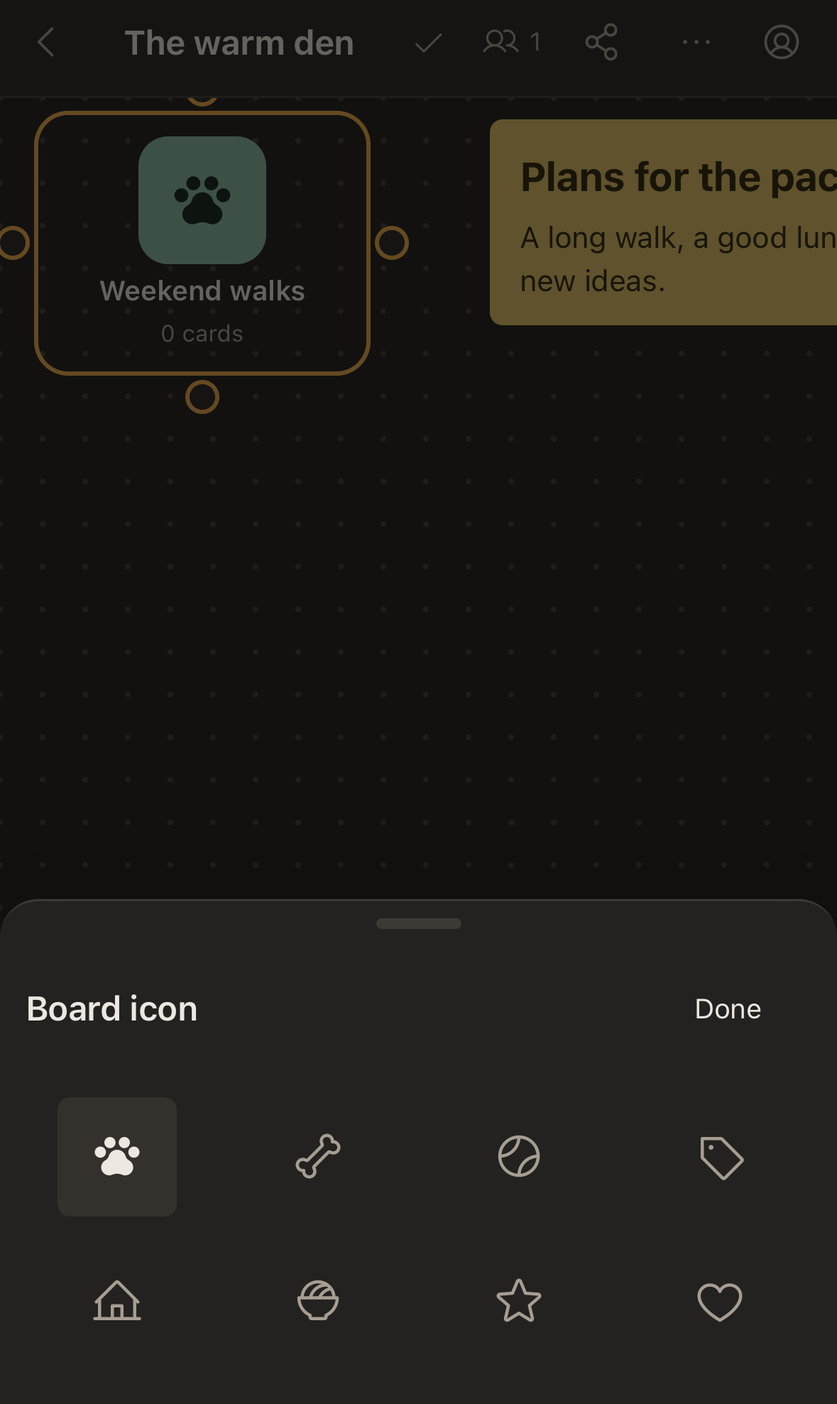
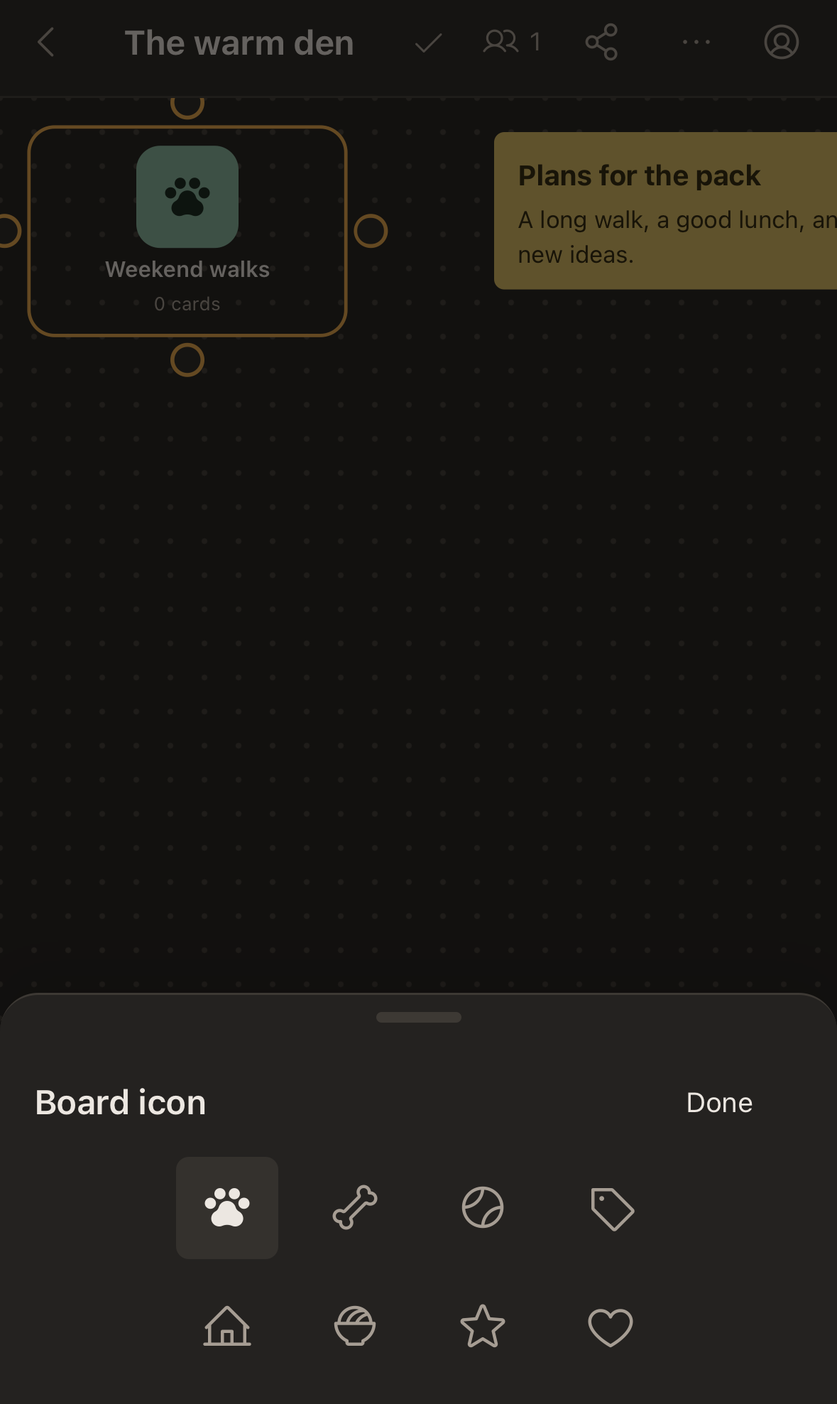
Tighten creation palettes and sharing after panel review

diff --git a/apps/web/src/ui/ShareDialog.tsx b/apps/web/src/ui/ShareDialog.tsx
@@ -46,6 +46,7 @@ function SharePanel(props: { boardId: Id; onClose: () => void }) {
   const [error, setError] = createSignal<string | null>(null)
   const [copied, setCopied] = createSignal<string | null>(null)
   const [busy, setBusy] = createSignal(false)
+  const invitingPerson = () => !!username().trim()
   const parent = () => boardPermissions().find((b) => b.id === props.boardId)?.parentId
   let panel!: HTMLDivElement
   onMount(() => {
@@ -89,30 +90,48 @@ function SharePanel(props: { boardId: Id; onClose: () => void }) {
   }
   return <div ref={panel} class="menu share-panel" data-testid="share-panel" role="dialog" aria-label="Board sharing" onKeyDown={agentDialogKeys}><SheetGrip onDismiss={props.onClose} />
     <div class="share-head"><strong>Share board</strong><button class="icon-btn" aria-label="Close sharing" onClick={props.onClose}><Icon size={16} name="close" /></button></div>
-    <p class="share-sub">{sharing()?.legacy ? 'Shared space members already have editing access. Admins manage its invitations.' : 'Private until you invite someone. Only you manage sharing.'}</p>
-    <Show when={parent() && parent() !== `home:${sharing()?.ownerId}`}><p class="share-sub">People with inherited access from “{boardDisplayTitle(doc.getBoard(parent()), 'the parent board')}” keep that access. Manage it on the parent board.</p></Show>
-    <label class="check"><input type="checkbox" data-testid="include-children" checked={includeChildren()} onChange={(e) => setIncludeChildren(e.currentTarget.checked)} />Include boards inside this one</label>
-    <label class="share-permission-field">Invitation permission
-      <select aria-label="Invitation permission" data-testid="invitation-permission" value={permission()} onChange={(e) => setPermission(e.currentTarget.value as 'view' | 'edit')}><option value="view">View only</option><option value="edit">Can edit</option></select>
-    </label>
-    <strong>Invite by username</strong>
-    <form class="share-user-form" onSubmit={addMember} data-testid="share-member-form">
-      <input aria-label="Username to invite" placeholder="Username" value={username()} required minLength={2} maxLength={32} onInput={(e) => setUsername(e.currentTarget.value)} />
-      <button class="bar-btn" type="submit" disabled={busy()}>Invite</button>
-    </form>
-    <ul class="share-members"><For each={sharing()?.members ?? []}>{(m) => <li data-testid="share-member"><span>{m.username}<br /><small>{m.permission === 'edit' ? 'Can edit' : 'View only'}{m.viaLink ? ' · via invitation link' : ''}</small></span><button class="bar-btn" disabled={busy()} aria-label={`Remove access for ${m.username}`} onClick={() => void action(() => api(`/api/boards/${encodeURIComponent(props.boardId)}/members/${encodeURIComponent(m.id)}`, { method: 'DELETE' }))}>Remove</button></li>}</For></ul>
-    <strong>Invite by link</strong>
-    <p class="share-sub">{permission() === 'view' ? 'Anyone with this link can look without signing in.' : 'Sign-in required. This invitation can be accepted for 7 days; access continues until removed.'}</p>
-    <Show when={permission() === 'edit'}><label class="check"><input type="checkbox" data-testid="share-allow-signup" checked={allowSignup()} onChange={(e) => setAllowSignup(e.currentTarget.checked)} />Allow new accounts through this link</label><p class="share-sub">Leave this off to invite existing accounts only.</p></Show>
-    <button class="primary-btn" data-testid="create-share" disabled={busy()} onClick={() => void create()}>{busy() ? 'Saving…' : sharing()?.shares.length ? 'New link' : 'Create link'}</button>
-    <Show when={error() || list.error}><p class="form-error" role="alert">{error() || (list.error instanceof ApiError ? list.error.message : 'Could not load sharing. Try again when online.')}</p><Show when={list.error}><button class="bar-btn" onClick={() => void refetch()}>Retry loading sharing</button></Show></Show>
-    <Show when={list.loading}><p class="share-sub" role="status">Loading sharing…</p></Show>
-    <ul class="share-list"><For each={sharing()?.shares ?? []}>{(s) => <li data-testid="share-link">
-      <input class="share-url" readonly aria-label={`${s.permission === 'edit' ? 'Editing' : 'View-only'} link`} value={shareUrl(s.token, s.permission)} data-testid="share-url" onFocus={(e) => e.currentTarget.select()} />
-      <div class="share-actions"><span class="share-meta">{s.permission === 'edit' ? 'Can edit' : 'View only'} · {s.includeChildren ? 'with inner boards' : 'this board only'}</span><button class="bar-btn" onClick={() => void copy(s)}>{copied() === s.token ? 'Copied!' : 'Copy'}</button><button class="bar-btn" data-testid="revoke-share" disabled={busy()} onClick={() => void action(() => api(`/api/shares/${encodeURIComponent(s.token)}`, { method: 'DELETE' }))}>Turn off</button></div>
-      <Show when={s.expiresAt}><span class="share-expiry">{s.expiresAt! <= Date.now() ? 'Expired for new recipients' : `Accept by ${new Date(s.expiresAt!).toLocaleDateString()}`}{s.allowSignup ? ' · Account creation allowed' : ''}</span></Show>
-      <Show when={s.permission === 'view' && s.scopeVersion === 0}><p class="share-sub">Legacy link: includes referenced boards. Create a new link to share only this board and its nested boards.</p></Show>
-    </li>}</For></ul>
-    <p class="share-sub">Turning a link off removes access granted through it. Previously downloaded copies cannot be recalled.</p>
+    <div class="share-content">
+      <Show when={sharing()?.legacy}><p class="share-sub">Shared space members already have editing access. Admins manage its invitations.</p></Show>
+      <Show when={sharing() && parent() && parent() !== `home:${sharing()?.ownerId}`}><p class="share-sub">People with inherited access from “{boardDisplayTitle(doc.getBoard(parent()), 'the parent board')}” keep that access. Manage it on the parent board.</p></Show>
+      <section class="share-section" aria-label="New invitation settings">
+        <label class="share-permission-field">New invitation access
+          <select aria-label="Invitation permission" data-testid="invitation-permission" value={permission()} onChange={(e) => setPermission(e.currentTarget.value as 'view' | 'edit')}><option value="view">View only</option><option value="edit">Can edit</option></select>
+        </label>
+        <label class="check"><input type="checkbox" data-testid="include-children" checked={includeChildren()} onChange={(e) => setIncludeChildren(e.currentTarget.checked)} />Include boards inside this one</label>
+      </section>
+      <section class="share-section" aria-label="Invite by username">
+        <strong>Invite by username</strong>
+        <form class="share-user-form" onSubmit={addMember} data-testid="share-member-form">
+          <input aria-label="Username to invite" placeholder="Username" value={username()} required minLength={2} maxLength={32} onInput={(e) => setUsername(e.currentTarget.value)} />
+          <button class={invitingPerson() ? 'primary-btn' : 'bar-btn'} type="submit" disabled={busy()}>Invite</button>
+        </form>
+      </section>
+      <section class="share-section" aria-label="Invite by link">
+        <strong>Invite by link</strong>
+        <p class="share-sub">{permission() === 'view' ? 'Anyone with this link can look without signing in.' : 'Sign-in required. Accept within 7 days; access continues until removed.'}</p>
+        <Show when={permission() === 'edit'}><label class="check"><input type="checkbox" data-testid="share-allow-signup" checked={allowSignup()} onChange={(e) => setAllowSignup(e.currentTarget.checked)} />Allow new accounts through this link</label></Show>
+        <button class={invitingPerson() ? 'bar-btn' : 'primary-btn'} data-testid="create-share" disabled={busy()} onClick={() => void create()}>{busy() ? 'Saving…' : sharing()?.shares.length ? 'New link' : 'Create link'}</button>
+      </section>
+      <Show when={error() || list.error}><p class="form-error" role="alert">{error() || (list.error instanceof ApiError ? list.error.message : 'Could not load sharing. Try again when online.')}</p><Show when={list.error}><button class="bar-btn" onClick={() => void refetch()}>Retry loading sharing</button></Show></Show>
+      <Show when={list.loading}><p class="share-sub" role="status">Loading sharing…</p></Show>
+      <Show when={sharing()?.members.length}>
+        <section class="share-section share-existing" aria-label="People with access">
+          <strong>People with access</strong>
+          <ul class="share-members"><For each={sharing()?.members ?? []}>{(m) => <li data-testid="share-member"><span>{m.username}<br /><small>{m.permission === 'edit' ? 'Can edit' : 'View only'}{m.viaLink ? ' · via invitation link' : ''}</small></span><button class="bar-btn" disabled={busy()} aria-label={`Remove access for ${m.username}`} onClick={() => void action(() => api(`/api/boards/${encodeURIComponent(props.boardId)}/members/${encodeURIComponent(m.id)}`, { method: 'DELETE' }))}>Remove</button></li>}</For></ul>
+        </section>
+      </Show>
+      <Show when={sharing()?.shares.length}>
+        <section class="share-section share-existing" aria-label="Existing links">
+          <strong>Existing links</strong>
+          <ul class="share-list"><For each={sharing()?.shares ?? []}>{(s) => <li data-testid="share-link">
+            <input class="share-url" readonly aria-label={`${s.permission === 'edit' ? 'Editing' : 'View-only'} link`} value={shareUrl(s.token, s.permission)} data-testid="share-url" onFocus={(e) => e.currentTarget.select()} />
+            <div class="share-actions"><span class="share-meta">{s.permission === 'edit' ? 'Can edit' : 'View only'} · {s.includeChildren ? 'with inner boards' : 'this board only'}</span><button class="bar-btn" onClick={() => void copy(s)}>{copied() === s.token ? 'Copied!' : 'Copy'}</button><button class="bar-btn" data-testid="revoke-share" disabled={busy()} onClick={() => void action(() => api(`/api/shares/${encodeURIComponent(s.token)}`, { method: 'DELETE' }))}>Turn off</button></div>
+            <Show when={s.expiresAt}><span class="share-expiry">{s.expiresAt! <= Date.now() ? 'Expired for new recipients' : `Accept by ${new Date(s.expiresAt!).toLocaleDateString()}`}{s.allowSignup ? ' · Account creation allowed' : ''}</span></Show>
+            <Show when={s.permission === 'view' && s.scopeVersion === 0}><p class="share-sub">Legacy link: includes referenced boards. Create a new link to share only this board and its nested boards.</p></Show>
+          </li>}</For></ul>
+          <p class="share-sub">Turning a link off removes access granted through it. Previously downloaded copies cannot be recalled.</p>
+        </section>
+      </Show>
+    </div>
   </div>
 }

diff --git a/apps/web/src/ui/mobile.css b/apps/web/src/ui/mobile.css
@@ -489,8 +489,9 @@ html[data-touch-editing] .canvas-controls { visibility: hidden; }
   .selection-bar.docked .bar-actions .bar-btn { flex: 0 0 auto; min-width: 64px; }
 }
 @media (max-width: 599px), (pointer: coarse) and (max-height: 500px) {
-  /* Sticky sheet headers line up with the sheet's own padding; the grip stays on top. */
-  .share-head { top: -28px; margin: -28px -12px 0; padding: 28px 12px 4px; }
+  /* Keep the permission label attached to its full-width touch control. */
+  .share-permission-field { flex-direction: column; align-items: stretch; gap: 4px; }
+  .share-permission-field select { width: 100%; height: 44px; }
 }
 .install-help { padding-left: 12px; }
 
@@ -698,15 +699,17 @@ html[data-input='touch'] .share-panel .bar-btn { padding-inline: 12px; border-ra
 
 /* Creation: familiar cards first, then a compact list of occasional tools. */
 .add-grid.add-primary { grid-template-columns: repeat(3, minmax(0, 1fr)); }
-.add-primary .add-tile { font-weight: 600; }
+.add-primary .add-tile { min-height: 64px; padding: 4px; border: 0; background: transparent; gap: 4px; font-weight: 600; }
+.add-primary .add-tile-icon { width: 32px; height: 32px; border-radius: 10px; background: transparent; }
+.add-primary .add-tile-icon svg { width: 20px; height: 20px; }
 .add-primary-note .add-tile-icon { background: var(--dn-accent); color: var(--dn-accent-text); }
-.add-group-label { margin: 20px 0 8px; color: var(--dn-text-muted); font-size: 12px; font-weight: 600; }
+.add-group-label { margin: 16px 0 4px; color: var(--dn-text-muted); font-size: 12px; font-weight: 600; }
 .add-grid.add-secondary { grid-template-columns: repeat(2, minmax(0, 1fr)); gap: 4px 8px; }
-.add-secondary .add-tile { flex-direction: row; justify-content: flex-start; gap: 8px; min-height: 48px; padding: 4px 8px; border: 0; border-radius: 8px; background: transparent; }
+.add-secondary .add-tile { flex-direction: row; justify-content: flex-start; gap: 8px; min-height: 44px; padding: 4px 8px; border: 0; border-radius: 8px; background: transparent; }
 .add-secondary .add-tile-icon { width: 28px; height: 28px; background: transparent; }
 .add-secondary .add-tile-icon svg { width: 20px; height: 20px; }
-.add-grid.add-secondary > .add-tile:last-child { grid-column: auto; min-height: 48px; }
-.add-sheet .nav-menu-head { margin-bottom: 12px; }
+.add-grid.add-secondary > .add-tile:last-child { grid-column: auto; min-height: 44px; }
+.add-sheet .nav-menu-head { min-height: 44px; padding: 0; margin-bottom: 4px; }
 .add-sheet .nav-menu-head strong { font-size: 16px; }
 
 /* Phone selection keeps one row of actions. Palettes live in focused sheets. */
@@ -716,17 +719,21 @@ html[data-input='touch'] .share-panel .bar-btn { padding-inline: 12px; border-ra
 .selection-phone-actions > .bar-btn { flex: 1 1 0; min-width: 44px; min-height: 56px; padding: 6px 2px; display: flex; flex-direction: column; justify-content: center; gap: 4px; font-size: 12px; border-radius: 10px; }
 .selection-phone-actions > .selection-primary { background: var(--dn-accent); color: var(--dn-accent-text); font-weight: 600; }
 html[data-input='touch'] .selection-phone-actions > .selection-primary:active:not(:disabled) { background: var(--dn-accent); color: var(--dn-accent-text); }
-.selection-sheet-head { display: flex; align-items: center; justify-content: space-between; margin-bottom: 12px; gap: 12px; }
+.selection-sheet-head { display: flex; align-items: center; justify-content: space-between; min-height: 44px; margin-bottom: 4px; gap: 12px; }
 .selection-sheet-head strong { font-size: 16px; font-weight: 600; }
 .selection-sheet-head .bar-btn { min-width: 64px; min-height: 44px; }
-.selection-style-sheet .swatches, .selection-style-sheet .icon-picker { display: grid; grid-template-columns: repeat(4, minmax(44px, 1fr)); gap: 12px 8px; justify-items: center; padding: 8px 0; }
-.selection-style-sheet .swatch { width: 56px; height: 56px; --dot: 32px; }
-.selection-style-sheet .icon-choice { width: 56px; height: 56px; }
+.selection-style-sheet .swatches, .selection-style-sheet .icon-picker { display: grid; width: min(228px, 100%); margin-inline: auto; grid-template-columns: repeat(4, minmax(44px, 1fr)); gap: 8px 12px; justify-items: center; padding: 0; }
+.selection-style-sheet .swatch { width: 48px; height: 48px; --dot: 32px; }
+.selection-style-sheet .icon-choice { width: 48px; height: 48px; }
 .selection-style-sheet .icon-choice > svg { width: 24px; height: 24px; }
 .selection-sheet-align { display: flex; justify-content: space-between; gap: 4px; padding: 4px 0; }
 .selection-sheet-align .bar-icon { min-width: 44px; min-height: 44px; }
 @media (max-width: 599px), (max-height: 500px) and (pointer: coarse) {
   .menu.selection-style-sheet, .menu.add-sheet { border-radius: 18px 18px 0 0; }
+  :is(.menu.selection-style-sheet, .menu.add-sheet, .share-panel) {
+    padding-left: max(16px, env(safe-area-inset-left)) !important;
+    padding-right: max(16px, env(safe-area-inset-right)) !important;
+  }
   .selection-bar.docked:has(.selection-phone-actions) { flex-direction: column; align-items: stretch; gap: 4px; padding-top: 0; }
 }
 

diff --git a/apps/web/e2e/mobile-distill.spec.ts b/apps/web/e2e/mobile-distill.spec.ts
@@ -6,11 +6,20 @@ test('Add has three leading cards, one gold choice and quiet secondary tools', a
   await freshBoard(page)
   await page.getByTestId('dock-add').tap()
   const sheet = page.getByTestId('add-sheet')
+  await sheet.evaluate(el => Promise.all(el.getAnimations().map(a => a.finished.catch(() => undefined))))
   await expect(sheet.locator('.add-primary button')).toHaveText(['Note', 'To-do', 'Board'])
   await expect(sheet.locator('.add-primary-note')).toHaveCount(1)
   const primary = await sheet.getByTestId('add-note').boundingBox()
   const secondary = await sheet.getByTestId('add-link').boundingBox()
   expect(primary!.height).toBeGreaterThan(secondary!.height)
+  expect(primary!.height).toBeLessThanOrEqual(68)
+  await expect(sheet.getByRole('menuitem')).toHaveCount(12)
+  for (const button of await sheet.getByRole('menuitem').all()) {
+    const box = (await button.boundingBox())!
+    expect(box.height).toBeGreaterThanOrEqual(44)
+    expect(box.y + box.height).toBeLessThanOrEqual(page.viewportSize()!.height)
+  }
+  expect(await sheet.getByTestId('add-note').evaluate(el => getComputedStyle(el).borderTopWidth)).toBe('0px')
   await sheet.getByTestId('add-link').tap()
   await expect(page.getByTestId('link-input')).toBeFocused()
 })
@@ -24,6 +33,10 @@ test('note actions use a compact dock and Colour restores focus on dismissal', a
   await expect(bar.locator('.selection-phone-actions > button')).toHaveText(['Edit', 'Colour', 'Labels', 'Bury', 'More'])
   await expect(bar.locator('.swatch')).toHaveCount(0)
   await page.getByTestId('selection-colour').tap()
+  const palette = page.getByTestId('selection-style-sheet')
+  expect((await palette.boundingBox())!.height).toBeLessThanOrEqual(210)
+  expect((await palette.locator('.swatches').boundingBox())!.width).toBeLessThanOrEqual(240)
+  for (const swatch of await palette.locator('.swatch').all()) expect((await swatch.boundingBox())!.height).toBeGreaterThanOrEqual(44)
   await page.getByTestId('swatch-sky').tap()
   await expect(page.getByTestId('swatch-sky')).toHaveAttribute('aria-pressed', 'true')
   await page.keyboard.press('Escape')
@@ -51,6 +64,10 @@ test('a board leads with Open and uses its actual colour; Rename and icons live 
   await page.getByTestId('selection-more').tap()
   await page.getByTestId('selection-icon').tap()
   await expect(page.getByTestId('selection-more-menu')).toHaveCount(0)
+  const icons = page.getByTestId('selection-style-sheet')
+  expect((await icons.boundingBox())!.height).toBeLessThanOrEqual(210)
+  await expect(icons.locator('.icon-choice')).toHaveCount(8)
+  for (const choice of await icons.locator('.icon-choice').all()) expect((await choice.boundingBox())!.height).toBeGreaterThanOrEqual(44)
   await page.getByTestId('icon-bone').tap()
   await page.getByTestId('selection-style-done').tap()
   await expect(page.getByTestId('selection-more')).toBeFocused()
@@ -66,14 +83,27 @@ test('a board leads with Open and uses its actual colour; Rename and icons live 
 })
 
 test('phone sharing has one permission control with a touch target', async ({ page }) => {
-  await freshBoard(page)
+  const { homeBoardId } = await (await page.request.get('/api/access')).json()
+  const id = crypto.randomUUID()
+  expect((await postSync(page.request, { data: { changes: [{ id, patch: { id, kind: 'board', parentId: homeBoardId, title: 'Private sharing', icon: 'paw', color: 'gold', createdAt: Date.now() } }] } })).ok()).toBe(true)
+  await page.goto(`/#/b/${id}`)
+  await expect(page.getByTestId('canvas')).toBeVisible()
   await page.getByTestId('share').tap()
   const panel = page.getByTestId('share-panel')
+  await expect(panel.getByRole('status')).toHaveCount(0)
   await expect(panel.locator('select')).toHaveCount(1)
   const permission = panel.getByLabel('Invitation permission')
   expect((await permission.boundingBox())!.height).toBeGreaterThanOrEqual(44)
+  await expect(panel.locator('.share-members, .share-list')).toHaveCount(0)
+  await expect(panel).not.toContainText('Private until')
+  await expect(panel).not.toContainText('Leave this off')
+  const field = (await permission.boundingBox())!, container = (await panel.boundingBox())!
+  expect(field.x - container.x).toBeGreaterThanOrEqual(16)
+  expect(container.x + container.width - field.x - field.width).toBeGreaterThanOrEqual(16)
   await permission.selectOption('edit')
   await expect(page.getByTestId('share-allow-signup')).toBeVisible()
+  expect((await panel.boundingBox())!.height).toBeLessThanOrEqual(520)
+  await expect(panel.getByText('Sign-in required. Accept within 7 days; access continues until removed.')).toBeVisible()
   await page.getByTestId('create-share').tap()
   await expect(page.getByTestId('share-link')).toContainText('Can edit')
 })

diff --git a/apps/web/src/ui/sharing.css b/apps/web/src/ui/sharing.css
@@ -4,8 +4,6 @@
   max-width: calc(100vw - 24px);
   max-height: calc(100dvh - 72px);
   padding: 16px;
-  display: grid;
-  gap: 12px;
   overflow-y: auto;
   overscroll-behavior: contain;
 }
@@ -15,23 +13,29 @@
   justify-content: space-between;
   gap: 12px;
   position: sticky;
-  top: -16px;
-  margin: -16px -16px 0;
+  top: 0;
+  min-height: 44px;
+  margin-bottom: 16px;
   z-index: 1;
   background: var(--dn-panel);
-  padding: 20px 16px 4px;
+  padding: 0;
 }
-.share-head strong { min-width: 0; font-size: 14px; overflow-wrap: anywhere; }
+.share-head strong { min-width: 0; font-size: 16px; overflow-wrap: anywhere; }
 .share-head .icon-btn { flex: 0 0 auto; }
 .share-sub { margin: 0; color: var(--dn-text-muted); font-size: 12px; line-height: 1.5; overflow-wrap: anywhere; }
-.share-panel > strong { font-size: 13px; }
-.share-members { padding: 0; margin: 0 0 4px; list-style: none; }
+.share-content { display: grid; gap: 16px; }
+.share-section { display: grid; gap: 8px; min-width: 0; }
+.share-section > strong { font-size: 13px; font-weight: 600; }
+.share-section > strong + .share-sub { margin-top: -4px; }
+.share-existing { border-top: 1px solid var(--dn-border); padding-top: 16px; }
+.share-members { padding: 0; margin: 0; list-style: none; }
 .share-members li { display: flex; align-items: center; gap: 12px; padding: 12px 0; border-bottom: 1px solid var(--dn-border); }
 .share-members li > span { flex: 1; min-width: 0; overflow-wrap: anywhere; font-size: 13px; }
 .share-members li > button { flex-shrink: 0; }
 .share-members small, .share-expiry { color: var(--dn-text-muted); font-size: 12px; line-height: 1.5; }
 .share-user-form { display: flex; flex-wrap: wrap; gap: 8px; margin: 0; }
 .share-user-form input { flex: 1 1 120px; min-width: 0; border: 1px solid var(--dn-border); border-radius: 8px; padding: 8px; background: var(--dn-bg); color: var(--dn-text); }
+.share-user-form input::placeholder { color: var(--dn-text-muted); opacity: 1; }
 .share-panel :is(button, input:not([type='checkbox']), select) { min-height: 36px; }
 .share-panel .check { min-height: 36px; margin: 0; line-height: 1.5; }
 .share-panel .check input { flex-shrink: 0; }
@@ -50,6 +54,6 @@
 }
 
 .share-permission-field { display: flex; align-items: center; justify-content: space-between; gap: 12px; font-size: 13px; }
-.share-permission-field select { border: 1px solid var(--dn-border); border-radius: 8px; padding: 8px; background: var(--dn-bg); color: var(--dn-text); font: inherit; }
+.share-permission-field select { width: 128px; height: 36px; flex-shrink: 0; border: 1px solid var(--dn-border); border-radius: 8px; padding: 8px; background: var(--dn-bg); color: var(--dn-text); font: inherit; }
 
 @media (pointer: coarse) { .share-permission-field select { height: 44px; } }

diff --git a/apps/web/e2e/distill.spec.ts b/apps/web/e2e/distill.spec.ts
@@ -28,6 +28,8 @@ test('one invitation permission applies to username invites and links', async ({
   await expect(page.getByTestId('share-allow-signup')).toBeVisible()
   const invited = page.waitForRequest((r) => r.method() === 'POST' && r.url().includes('/members'))
   await panel.getByLabel('Username to invite').fill('fido')
+  await expect(panel.getByRole('button', { name: 'Invite', exact: true })).toHaveClass('primary-btn')
+  await expect(page.getByTestId('create-share')).not.toHaveClass('primary-btn')
   await panel.getByRole('button', { name: 'Invite', exact: true }).click()
   expect((await invited).postDataJSON().permission).toBe('edit')
   await expect(panel.getByTestId('share-member').filter({ hasText: 'fido' })).toContainText('Can edit')
@@ -35,5 +37,9 @@ test('one invitation permission applies to username invites and links', async ({
   await permission.selectOption('view')
   await page.getByTestId('create-share').click()
   expect((await link).postDataJSON().permission).toBe('view')
+  await expect(panel.getByRole('region', { name: 'Existing links' })).toContainText('View only')
   await expect(page.getByTestId('share-link')).toContainText('View only')
+  await permission.selectOption('edit')
+  await expect(page.getByTestId('share-link')).toContainText('View only')
+  await expect(page.getByTestId('share-member')).toContainText('Can edit')
 })

diff --git a/docs/qa/fewer-choices/README.md b/docs/qa/fewer-choices/README.md
@@ -7,6 +7,11 @@ Item 6 of the Warm Den critique backlog. Reviewed with the Impeccable distill gu
 | Equal-weight creation tools and twelve gold phone tiles | Note, To-do and Board lead; Note alone has the accent; occasional tools use a quiet second tier | Common tasks have a clear starting point while every tool stays available |
 | A board selection exposes colours, Open, Rename, eight icons and actions at once | Five contextual actions plus a separate Done; Colour and board icons open focused sheets | Keeps the board visible and gives every target at least 44px |
 | Independent permission controls for username and link invitations | One Invitation permission control for either method | A single, explicit choice applies to the invitation being created |
+| Outlined primary Add cards around a second icon tile | Borderless 64px leading tools and 44px secondary rows, all visible | Keeps the hierarchy while recovering board space without another tap |
+| Palettes spread eight small choices across a full-width sheet | Centred 228px four-by-two grid with 48px targets | Groups the visual choices without shrinking their dots or icons |
+| Share gives empty lists, settings, headings and copy the same flat gap | 16px section gaps, 8px within sections, populated access lists only | Spacing communicates relationships; empty lists reserve no space |
+| Share repeats generic privacy and checkbox explanations | Shorter task copy, explicit new-invitation scope, conditional access consequences | Removes repetition while retaining sign-in, inheritance and expiry information |
+| Create link stays primary while a username is being entered | Invite becomes primary when a username is present | Keeps one primary action aligned with the current task |
 
 Design pass: checked both themes on desktop and phone for hierarchy, spacing, alignment, accent use and target size. Corrected Safari's native-select height, hid the sticker launcher while selection actions occupy its space, and added Done to the phone More sheet. No card typography, padding, measurements or canvas transforms changed.
 
@@ -15,3 +20,9 @@ Screenshots are captured with temporary Playwright specs (removed before commit)
 Integration with main `6152b6bf` (#69 and #70): resolved overlaps in Add, More and mobile styles while retaining immediate Add reopening, explicit sheet grips, cancellation and focus return. Added the shared grip to the new Colour and Board icon sheets, which were not covered by the upstream popover class list. The compact action dock and single invitation permission remain intact.
 
 Validation after integration: typecheck and 312 unit tests pass. The focused Chromium, WebKit, iPhone and Pixel matrix passed 188 tests with 2 intentional skips and no retries. It includes six new phone regressions for grip cancellation, dismissal and focus return on Colour, Board icon and More, plus the recent Fetch, camera, reduced-motion and rapid Add checks. Canvas pan/zoom remain at 16.7–16.8ms p95 with a 13MB JS heap. Performance tests and budgets are unchanged. All twelve phone screenshots were refreshed after integration.
+
+Follow-up design review: independent Impeccable and Emil assessments agreed on removing redundant Add containers, tightening palette spacing and grouping Share. The user chose compact, visible tools and updates to all four panels. Add now measures about 426px instead of 473px; Colour and Board icon measure 193px instead of 237px. Every target remains at least 44px. Phone permission uses a full-width select below its label; both layouts have 16px gutters. Existing members and links are grouped separately from new invitations. The inherited-access explanation waits for loaded access data rather than flashing while the owner is unknown. The private edit-invitation sheet now measures about 486px instead of the previous 565px; inherited/legacy-access explanations remain conditional. Placeholder colour comes from the existing muted-text token.
+
+Design pass: inspected the changed dark/light Add, Colour, Board icon and desktop/phone Share captures, corrected loading-state captures, the inherited-access flash and the Share grip/header spacing, then confirmed the final renders. Safari uses an explicit select height (36px desktop / 44px touch). Temporary screenshot specs are removed before commit; existing creation/selection/More captures remain valid.
+
+Refinement validation: `pnpm typecheck` and all 312 unit tests pass. The desktop/Safari/iPhone/Pixel matrix finished with 172 passing cases and one intentional skip; one existing Pixel toast case missed its initial card-selection tap. The focused recheck passed all eight dark/light and normal/reduced-motion combinations on iPhone and Pixel. All panel regressions, sharing/access cases and sheet-gesture checks passed. New geometry assertions wait for entrance motion to finish before measuring. No test budget or unrelated fixture was changed.

diff --git a/apps/web/DESIGN.md b/apps/web/DESIGN.md
@@ -300,13 +300,13 @@ Shelf background, 1px border, 10px radius, floating shadow, 4px inner padding. R
 Shelf background, 14px radius, at most 460px wide, over a 45% black backdrop. Headings are 16px. On phones, dialogs and panels become bottom sheets over the scrim token.
 
 ### Creation tools
-Note, To-do and Board lead the desktop rail and phone Add sheet. Note is the single accented choice. Occasional tools sit in a quieter More tier; desktop tools keep click and drag creation. Phone secondary tools use compact icon-and-label rows instead of equal-weight tiles.
+Note, To-do and Board lead the desktop rail and phone Add sheet. Note is the single accented choice. Occasional tools sit in a quieter More tier; desktop tools keep click and drag creation. Phone primary tools are borderless 64px icon-and-label buttons; only Note has an accented icon tile. Secondary tools stay visible as compact 44px icon-and-label rows. Add and palette sheets use 16px gutters and a 44px header below the grip.
 
 ### Sharing
-One labelled Invitation permission control applies to new username invitations and links. Existing access and links retain their own permissions. View only is the default; Can edit exposes the account-creation option for links.
+One labelled Invitation permission control applies to new username invitations and links. Existing access and links retain their own permissions. View only is the default; Can edit exposes the account-creation option for links. Settings are labelled for new invitations; existing people and links form separate sections, shown only when populated. Use 16px between sections, 8px within sections and 4px from a heading to its explanation. On phones the permission label sits above a full-width 44px select; desktop keeps a label/control row. Typing a username gives Invite the single primary emphasis. General privacy and redundant checkbox copy stay out of the creation flow; inherited access and invitation-expiry consequences remain explicit.
 
 ### Selection bar
-A floating shelf pill (12px radius, floating shadow) centred above the selection, popping in over 140ms. If it would cover a visible card, it flips below or slides into the nearest clear space. Labels popovers also avoid card content and the bar; crowded boards use the position covering the least content. It holds the swatches, icon picker, labels and actions. It wraps rather than scrolls on narrow windows. On phones, a compact dock shows Open (boards) or Edit, Colour, Labels, Bury and More. Only Open/Edit gets the accent fill; Done closes the selection separately. Colour and board icons open focused sheets with 44px minimum targets. More holds Rename, board icons, locks, alignment, duplication, comments, connectors and list options when applicable. The selected colour always reflects the displayed card or board.
+A floating shelf pill (12px radius, floating shadow) centred above the selection, popping in over 140ms. If it would cover a visible card, it flips below or slides into the nearest clear space. Labels popovers also avoid card content and the bar; crowded boards use the position covering the least content. It holds the swatches, icon picker, labels and actions. It wraps rather than scrolls on narrow windows. On phones, a compact dock shows Open (boards) or Edit, Colour, Labels, Bury and More. Only Open/Edit gets the accent fill; Done closes the selection separately. Colour and board icons open focused sheets with a centred four-by-two grid: 48px targets, 12px column gaps and 8px row gaps, preserving 32px colour dots and 24px icons. More holds Rename, board icons, locks, alignment, duplication, comments, connectors and list options when applicable. The selected colour always reflects the displayed card or board.
 
 ### Stickers
 Image stickers with a white die-cut outline and a hard offset shadow, placed directly on the canvas. They are browsed in a rounded 18px tray with a 4-column grid of 12px-radius tiles.
